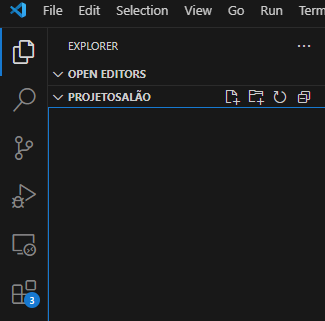
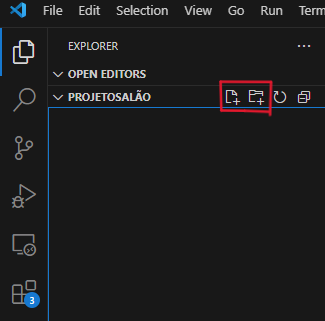
Atualizando o Manual

Changed region(s): [[0.6769, 0.2492, 0.8615, 0.3738]]

diff --git a/README.md b/README.md
@@ -120,6 +120,12 @@ Quando executar o vscode, você precisa instalar algumas extensões:
     <img src="Docs/Imagens/Extensões.png" width="400"> 
 </p>
 
+## - CRIAR PASTAS DENTRO DO PROJETO
+
+<p align="center">
+    <img src="Docs/Imagens/Criar pastas dentro do Projeto.png" width="400"> 
+</p>
+
 ## - CRIE UMA NOVA BRANCH
 
 Para que você possa saber as branchs existentes, use o comando:
